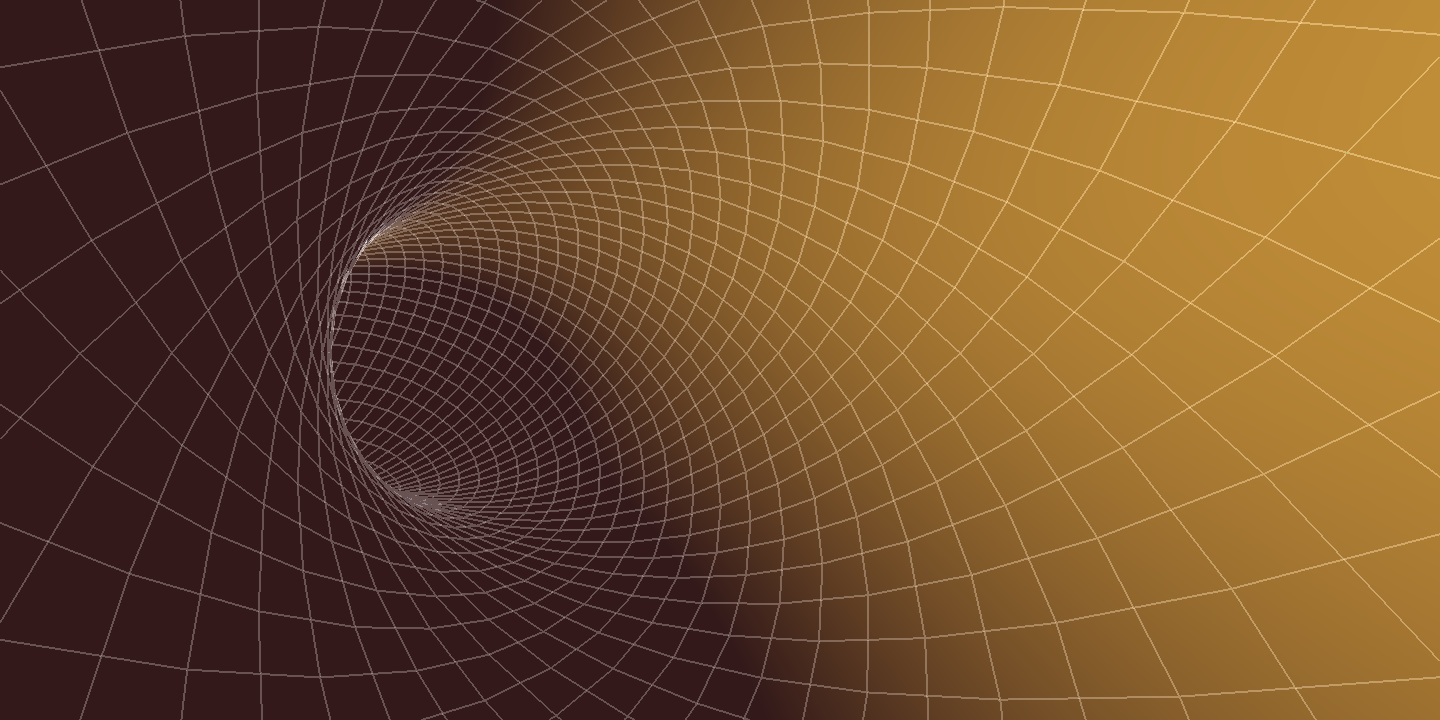
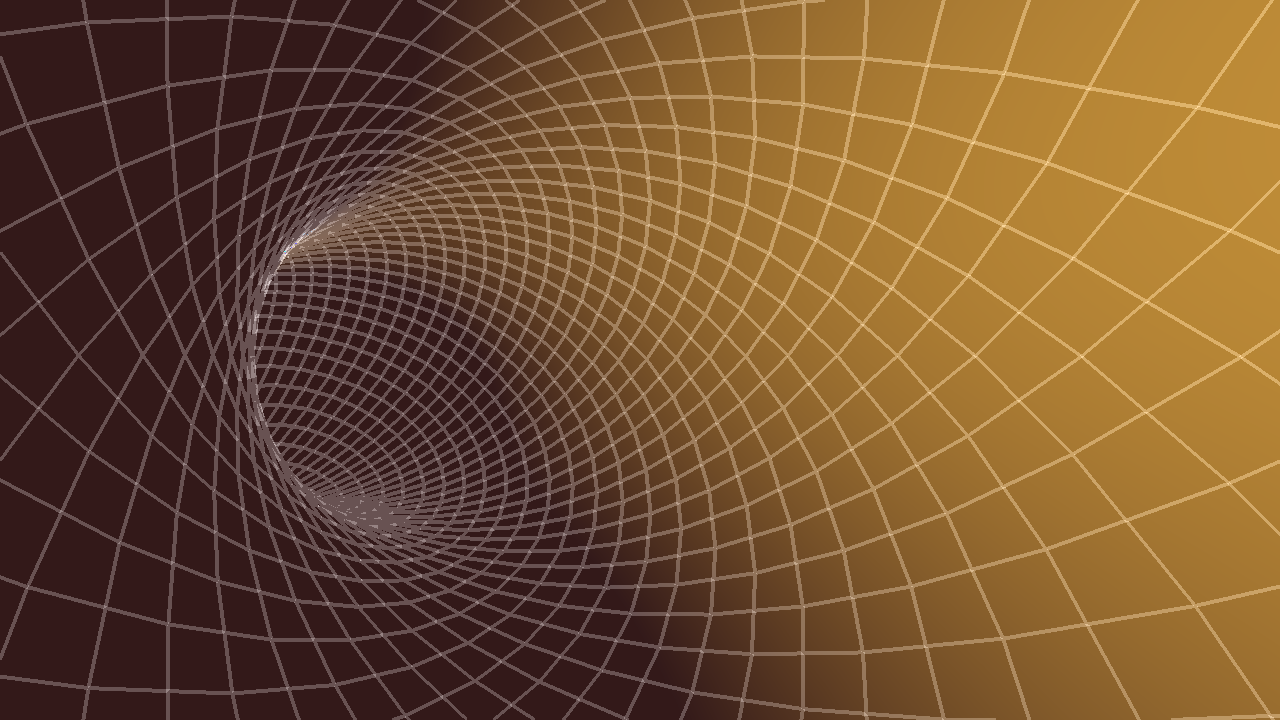
playing with preserveContents

diff --git a/recipes/TunnelFlight.js b/recipes/TunnelFlight.js
@@ -1,6 +1,18 @@
 var main = function() {
 
-  GIZA.init();
+  var options;
+  var updateOptions = function() {
+    var getid = function() { return $(this).attr('id'); };
+    options = $("input:checked").map(getid).get();
+  };
+  updateOptions();
+  $("#checks").buttonset().change(updateOptions);
+  
+  GIZA.init(null, {
+    preserveDrawingBuffer: true,
+    antialias: true
+  });
+
   var M4 = GIZA.Matrix4;
   var V3 = GIZA.Vector3;
 
@@ -93,29 +105,45 @@ var main = function() {
 
   var draw = function(currentTime) {
 
-    gl.clear(gl.COLOR_BUFFER_BIT | gl.DEPTH_BUFFER_BIT);
-
     var speed = 300; // the lower, the faster
-
     var ptCount = arrays.centerline.length / 3;
-    var cameraIndex = Math.floor((currentTime / speed) % ptCount);
 
+    // Clear the color buffer if desired
+    var clear = options.indexOf("clear") > -1;
+    if (clear) {
+      gl.clear(gl.COLOR_BUFFER_BIT | gl.DEPTH_BUFFER_BIT);
+    } else {
+      gl.clear(gl.DEPTH_BUFFER_BIT);
+    }
+    
+    // Good screenshot location
+    var freezeTime = 0.71 * (speed * ptCount);
+    var freeze = options.indexOf("freeze") > -1;
+    if (freeze && currentTime > freezeTime) {
+      currentTime = freezeTime;
+    }
+
+    // Set up the camera
+    var cameraIndex = Math.floor((currentTime / speed) % ptCount);
     var camera = function(t) {
       t = t / (speed * ptCount);
-      return GIZA.equations.grannyKnot(t);
+      //console.info(t - Math.floor(t));
+      var p = GIZA.equations.grannyKnot(t);
+      return p;
     };
-    
     var eye = camera(currentTime);
     var target = camera(currentTime + 50);
     var direction = V3.normalize(V3.subtract(eye, target));
-    target = V3.subtract(eye, direction);
     var up = V3.perp(direction);
     var mv = M4.lookAt(eye, target, up);
 
+    var finite = options.indexOf("finite") > -1;
+    var farPlane = finite ? 1 : 100;
+    var nearPlane = 0.1;
     var proj = M4.perspective(
       40,          // fov in degrees
       GIZA.aspect,
-      0.1, 100);  // near and far
+      nearPlane, farPlane);
 
     gl.bindBuffer(gl.ELEMENT_ARRAY_BUFFER, buffers.triangles)
     gl.enableVertexAttribArray(attribs.POSITION);
@@ -140,7 +168,7 @@ var main = function() {
 
     var program = programs.nonlit;
     var numIndices = 2 * buffers.wireframe.lineCount;
-    gl.lineWidth(2);
+    gl.lineWidth(4);
     gl.useProgram(program);
     gl.enable(gl.BLEND);
     gl.blendFunc(gl.SRC_ALPHA, gl.ONE_MINUS_SRC_ALPHA);
@@ -160,7 +188,7 @@ var main = function() {
         gl.lineWidth(6);
         gl.uniform4f(program.color, 1, 0, 0, 1);
         gl.drawArrays(gl.LINE_STRIP, cameraIndex, 3);
-        gl.lineWidth(2);
+        gl.lineWidth(4);
       }
     }
 
@@ -175,7 +203,6 @@ var main = function() {
     }
 
     gl.enable(gl.DEPTH_TEST);
-
     gl.disable(gl.BLEND);
     gl.disableVertexAttribArray(attribs.POSITION);
 

diff --git a/giza/Giza.js b/giza/Giza.js
@@ -6,7 +6,7 @@
 var GIZA = GIZA || { REVISION : '0' };
 var gl;
 
-GIZA.init = function(canvasElement) {
+GIZA.init = function(canvas, options) {
 
   window.requestAnimationFrame = window.requestAnimationFrame ||
     window.mozRequestAnimationFrame ||
@@ -14,10 +14,7 @@ GIZA.init = function(canvasElement) {
     window.msRequestAnimationFrame;
 
   // Find a canvas element if it wasn't specified.
-  var canvas = canvasElement;
-  if (!canvasElement) {
-    canvas = document.getElementsByTagName('canvas')[0];
-  }
+  canvas = canvas || document.getElementsByTagName('canvas')[0];
 
   // Gather information about the canvas.
   var pixelScale = window.devicePixelRatio || 1;
@@ -31,7 +28,11 @@ GIZA.init = function(canvasElement) {
   canvas.height = height * pixelScale;
 
   // Set up the WebGL context.
-  gl = canvas.getContext('experimental-webgl', {antialias: true});
+  options = options || {
+    preserveDrawingBuffer: false,
+    antialias: true
+  };
+  gl = canvas.getContext('experimental-webgl', options);
 
   if (!gl) {
     var msg = document.createElement('p');

diff --git a/recipes/TunnelFlight.html b/recipes/TunnelFlight.html
@@ -12,8 +12,18 @@
   <body>
     <h1>Tunnel Flight</h1>
     <div class="tagline">
+      You don't always need to call <tt>clear()</tt>
     </div>
-    <canvas style="width:640;height:360px">
+    <div id="checks" class="customui">
+      <input type="checkbox" id="finite" name="radio" checked="true"/><label for="finite">
+        Finite
+      </label><input type="checkbox" id="clear" name="radio" /><label for="clear">
+        Clear
+      </label><input type="checkbox" id="freeze" name="radio" checked="true"/><label for="freeze">
+        Freeze
+      </label>
+    </div>
+    <canvas style="width:640px;height:360px">
     </canvas>
     <div id="button-bar">
     </div>

diff --git a/README.md b/README.md
@@ -1,7 +1,13 @@
 # master
 
+- COMMON should have a facility for checkboxes
+
 - TODO sections
+
   - PRESERVEDRAWINGBUFFER
+    This can simulate single-buffering.  Impacts ReadPixels
+    http://stackoverflow.com/questions/9491417/when-webgl-decide-to-update-the-display?answertab=votes#tab-top
+    
   - PAGECOMPOSITOR
     http://www.svgopen.org/2005/papers/abstractsvgopen/
   - The Assembly Line Metaphor
